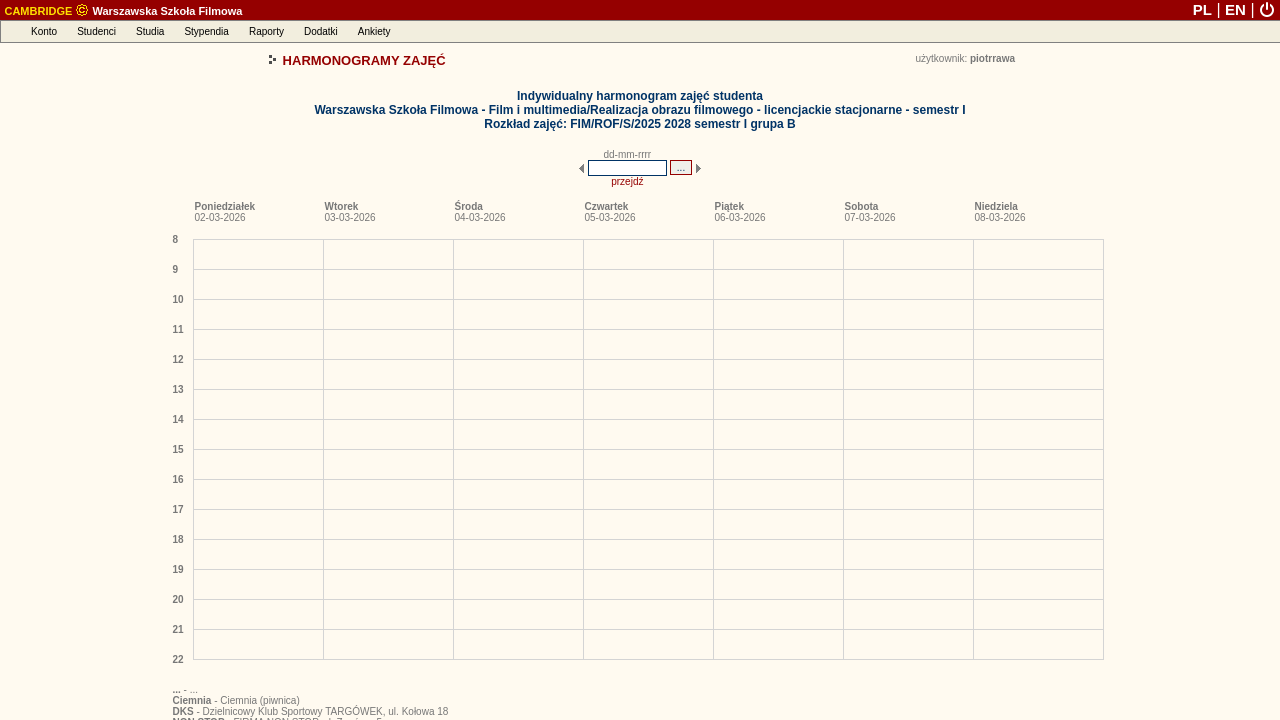
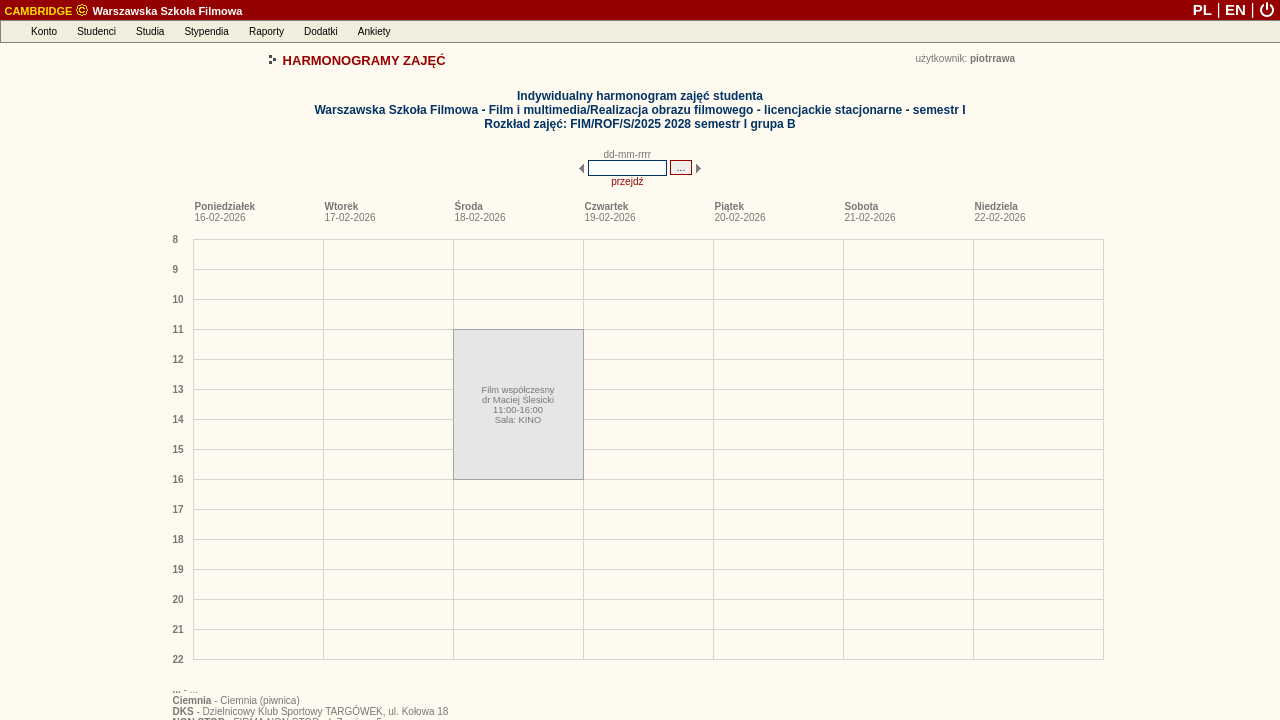
deploy: dfa69d0f82312febb651d8b8e029982c1f68af8a

Changed region(s): [[0.3438, 0.4583, 0.4688, 0.6722]]

diff --git a/debug_harmonogram_page.html b/debug_harmonogram_page.html
@@ -163,8 +163,8 @@
 
 
 
-<link rel="stylesheet" type="text/css" href="/palio/html.run?_Instance=cambridge&amp;_PageID=4&amp;_SessionID=1654942&amp;_SessionKey=589666518&amp;ZoomView=&amp;DisplayMode=&amp;_CheckSum=1575358779">
-<script language="javascript" type="text/javascript" src="/palio/html.run?_Instance=cambridge&amp;_PageID=5&amp;_SessionID=1654942&amp;_SessionKey=589666518&amp;_CheckSum=172641359"></script>
+<link rel="stylesheet" type="text/css" href="/palio/html.run?_Instance=cambridge&amp;_PageID=4&amp;_SessionID=1655131&amp;_SessionKey=933305103&amp;ZoomView=&amp;DisplayMode=&amp;_CheckSum=-724501909">
+<script language="javascript" type="text/javascript" src="/palio/html.run?_Instance=cambridge&amp;_PageID=5&amp;_SessionID=1655131&amp;_SessionKey=933305103&amp;_CheckSum=1449380127"></script>
 
 
 
@@ -354,9 +354,9 @@ CambridgeMenuBar = new jsDOMenuBar("absolute", true)
 
 AccountMenu=new jsDOMenu(200, "", "absolute", false);
 
-AccountMenu.addMenuItem(new menuItem("Zmiana hasła", "", "/palio/html.run?_Instance=cambridge&amp;_PageID=11&amp;_SessionID=1654942&amp;_SessionKey=589666518&amp;_CheckSum=-1424473922"));
+AccountMenu.addMenuItem(new menuItem("Zmiana hasła", "", "/palio/html.run?_Instance=cambridge&amp;_PageID=11&amp;_SessionID=1655131&amp;_SessionKey=933305103&amp;_CheckSum=-147735154"));
 
-  AccountMenu.addMenuItem(new menuItem("Komunikator", "", "/palio/html.run?_Instance=cambridge&amp;_PageID=180&amp;_SessionID=1654942&amp;_SessionKey=589666518&amp;_CheckSum=212127619"));
+  AccountMenu.addMenuItem(new menuItem("Komunikator", "", "/palio/html.run?_Instance=cambridge&amp;_PageID=180&amp;_SessionID=1655131&amp;_SessionKey=933305103&amp;_CheckSum=1488866387"));
 
 
 
@@ -369,7 +369,7 @@ AccountMenu.addMenuItem(new menuItem("Yammer", "", "https://www.yammer.com/onlin
 
 AccountMenu.addMenuItem(new menuItem("-"));
 
-AccountMenu.addMenuItem(new menuItem("Wylogowanie", "", "https://student.szkolafilmowa.pl/palio/html.run?_Instance=cambridge&amp;_PageID=10012&amp;_Action=Logout&amp;_SessionID=1654942&amp;_SessionKey=589666518"));
+AccountMenu.addMenuItem(new menuItem("Wylogowanie", "", "https://student.szkolafilmowa.pl/palio/html.run?_Instance=cambridge&amp;_PageID=10012&amp;_Action=Logout&amp;_SessionID=1655131&amp;_SessionKey=933305103"));
 
 CambridgeMenuBar.addMenuBarItem(new menuBarItem("Konto", AccountMenu));
 
@@ -382,12 +382,12 @@ StudentsMenu=new jsDOMenu(320, "", "absolute", false);
 
 
 
-StudentsMenu.addMenuItem(new menuItem("Moje dane", "", "/palio/html.run?_Instance=cambridge&amp;_PageID=185&amp;_SessionID=1654942&amp;_SessionKey=589666518&amp;_CheckSum=-930546552"));
+StudentsMenu.addMenuItem(new menuItem("Moje dane", "", "/palio/html.run?_Instance=cambridge&amp;_PageID=185&amp;_SessionID=1655131&amp;_SessionKey=933305103&amp;_CheckSum=346192216"));
 
 
 
 
-StudentsMenu.addMenuItem(new menuItem("Moje indeksy", "", "/palio/html.run?_Instance=cambridge&amp;_PageID=186&amp;_SessionID=1654942&amp;_SessionKey=589666518&amp;_CheckSum=-300087927"));
+StudentsMenu.addMenuItem(new menuItem("Moje indeksy", "", "/palio/html.run?_Instance=cambridge&amp;_PageID=186&amp;_SessionID=1655131&amp;_SessionKey=933305103&amp;_CheckSum=976650841"));
 
 
 
@@ -426,7 +426,7 @@ StudiesMenu=new jsDOMenu(250, "", "absolute", false);
 
 
 
-StudiesMenu.addMenuItem(new menuItem("Moje plany studiów", "", "/palio/html.run?_Instance=cambridge&amp;_PageID=258&amp;_SessionID=1654942&amp;_SessionKey=589666518&amp;_CheckSum=-1556898065"));
+StudiesMenu.addMenuItem(new menuItem("Moje plany studiów", "", "/palio/html.run?_Instance=cambridge&amp;_PageID=258&amp;_SessionID=1655131&amp;_SessionKey=933305103&amp;_CheckSum=-280159297"));
 
 
 
@@ -434,13 +434,13 @@ StudiesMenu.addMenuItem(new menuItem("Moje plany studiów", "", "/palio/html.run
 
 
 
-StudiesMenu.addMenuItem(new menuItem("Harmonogramy zajęć", "", "/palio/html.run?_Instance=cambridge&amp;_PageID=95&amp;_SessionID=1654942&amp;_SessionKey=589666518&amp;_CheckSum=-1462690374"));
+StudiesMenu.addMenuItem(new menuItem("Harmonogramy zajęć", "", "/palio/html.run?_Instance=cambridge&amp;_PageID=95&amp;_SessionID=1655131&amp;_SessionKey=933305103&amp;_CheckSum=-185951606"));
 
-StudiesMenu.addMenuItem(new menuItem("Harmonogramy moich zajęć", "", "/palio/html.run?_Instance=cambridge&amp;_PageID=191&amp;_SessionID=1654942&amp;_SessionKey=589666518&amp;_CheckSum=-1088032861"));
+StudiesMenu.addMenuItem(new menuItem("Harmonogramy moich zajęć", "", "/palio/html.run?_Instance=cambridge&amp;_PageID=191&amp;_SessionID=1655131&amp;_SessionKey=933305103&amp;_CheckSum=188705907"));
 
-StudiesMenu.addMenuItem(new menuItem("Harmonogramy innych zajęć", "", "/palio/html.run?_Instance=cambridge&amp;_PageID=248&amp;_SessionID=1654942&amp;_SessionKey=589666518&amp;_CheckSum=373721040"));
+StudiesMenu.addMenuItem(new menuItem("Harmonogramy innych zajęć", "", "/palio/html.run?_Instance=cambridge&amp;_PageID=248&amp;_SessionID=1655131&amp;_SessionKey=933305103&amp;_CheckSum=1650459808"));
 
-StudiesMenu.addMenuItem(new menuItem("Harmonogramy zajętości sal", "", "/palio/html.run?_Instance=cambridge&amp;_PageID=269&amp;_SessionID=1654942&amp;_SessionKey=589666518&amp;_CheckSum=1437908751"));
+StudiesMenu.addMenuItem(new menuItem("Harmonogramy zajętości sal", "", "/palio/html.run?_Instance=cambridge&amp;_PageID=269&amp;_SessionID=1655131&amp;_SessionKey=933305103&amp;_CheckSum=-1580319777"));
 
 
 
@@ -470,9 +470,9 @@ CambridgeMenuBar.addMenuBarItem(new menuBarItem("Studia", StudiesMenu));
 ScholarshipsMenu=new jsDOMenu(230, "", "absolute", false);
 
 
-ScholarshipsMenu.addMenuItem(new menuItem("Moje stypendia", "", "/palio/html.run?_Instance=cambridge&amp;_PageID=187&amp;_SessionID=1654942&amp;_SessionKey=589666518&amp;_CheckSum=330370698"));
+ScholarshipsMenu.addMenuItem(new menuItem("Moje stypendia", "", "/palio/html.run?_Instance=cambridge&amp;_PageID=187&amp;_SessionID=1655131&amp;_SessionKey=933305103&amp;_CheckSum=1607109466"));
 
-ScholarshipsMenu.addMenuItem(new menuItem("Mój numer rachunku", "", "/palio/html.run?_Instance=cambridge&amp;_PageID=380&amp;_SessionID=1654942&amp;_SessionKey=589666518&amp;_CheckSum=772827397"));
+ScholarshipsMenu.addMenuItem(new menuItem("Mój numer rachunku", "", "/palio/html.run?_Instance=cambridge&amp;_PageID=380&amp;_SessionID=1655131&amp;_SessionKey=933305103&amp;_CheckSum=2049566165"));
 
 
 
@@ -482,9 +482,9 @@ ScholarshipsMenu.addMenuItem(new menuItem("Mój numer rachunku", "", "/palio/htm
 ScholarshipsMenu.addMenuItem(new menuItem("-"));
 
 
-ScholarshipsMenu.addMenuItem(new menuItem("Fundusze stypendialne", "", "/palio/html.run?_Instance=cambridge&amp;_PageID=54&amp;_SessionID=1654942&amp;_SessionKey=589666518&amp;_CheckSum=1334360125"));
+ScholarshipsMenu.addMenuItem(new menuItem("Fundusze stypendialne", "", "/palio/html.run?_Instance=cambridge&amp;_PageID=54&amp;_SessionID=1655131&amp;_SessionKey=933305103&amp;_CheckSum=-1683868403"));
 
-ScholarshipsMenu.addMenuItem(new menuItem("Rodzaje stypendiów", "", "/palio/html.run?_Instance=cambridge&amp;_PageID=55&amp;_SessionID=1654942&amp;_SessionKey=589666518&amp;_CheckSum=1964818750"));
+ScholarshipsMenu.addMenuItem(new menuItem("Rodzaje stypendiów", "", "/palio/html.run?_Instance=cambridge&amp;_PageID=55&amp;_SessionID=1655131&amp;_SessionKey=933305103&amp;_CheckSum=-1053409778"));
 
 
 
@@ -495,7 +495,7 @@ CambridgeMenuBar.addMenuBarItem(new menuBarItem("Stypendia", ScholarshipsMenu));
 ReportsMenu=new jsDOMenu(200, "", "absolute", false);
 
 
-ReportsMenu.addMenuItem(new menuItem("Generowanie raportów", "", "/palio/html.run?_Instance=cambridge&amp;_PageID=68&amp;_SessionID=1654942&amp;_SessionKey=589666518&amp;_CheckSum=1925575520"));
+ReportsMenu.addMenuItem(new menuItem("Generowanie raportów", "", "/palio/html.run?_Instance=cambridge&amp;_PageID=68&amp;_SessionID=1655131&amp;_SessionKey=933305103&amp;_CheckSum=-1092653008"));
 
 
 
@@ -505,7 +505,7 @@ CambridgeMenuBar.addMenuBarItem(new menuBarItem("Raporty", ReportsMenu));
 
 AdditionalsMenu=new jsDOMenu(200, "", "absolute", false);
 
-AdditionalsMenu.addMenuItem(new menuItem("Forum internetowe", "", "/palio/html.run?_Instance=cambridge&amp;_PageID=8001&amp;_SessionID=1654942&amp;_SessionKey=589666518&amp;_CheckSum=-869357033"));
+AdditionalsMenu.addMenuItem(new menuItem("Forum internetowe", "", "/palio/html.run?_Instance=cambridge&amp;_PageID=8001&amp;_SessionID=1655131&amp;_SessionKey=933305103&amp;_CheckSum=407381735"));
 
 
 
@@ -539,7 +539,7 @@ PollsMenu=new jsDOMenu(225, "", "absolute", false);
 
 
 
-PollsMenu.addMenuItem(new menuItem("Wypełnianie ankiet", "", "/palio/html.run?_Instance=cambridge&amp;_PageID=227&amp;_SessionID=1654942&amp;_SessionKey=589666518&amp;_CheckSum=-690466671"));
+PollsMenu.addMenuItem(new menuItem("Wypełnianie ankiet", "", "/palio/html.run?_Instance=cambridge&amp;_PageID=227&amp;_SessionID=1655131&amp;_SessionKey=933305103&amp;_CheckSum=586272097"));
 
 
 CambridgeMenuBar.addMenuBarItem(new menuBarItem("Ankiety", PollsMenu));
@@ -576,7 +576,7 @@ CambridgeMenuBar.moveTo(0,20);
 <table width="100%" border="0" cellspacing="0" cellpadding="0" align="center">
 <tbody><tr class="top_belt">
 
-<td align="left" height="20"><b>&nbsp;<a class="belt" href="/palio/html.run?_Instance=cambridge&amp;_PageID=6&amp;_SessionID=1654942&amp;_SessionKey=589666518&amp;_CheckSum=803099984"><span class="belt_application">CAMBRIDGE</span> <img src="/palio/html.media?_Instance=cambridge&amp;_Option=Palio&amp;_ID=51&amp;_CheckSum=684598873" width="14" height="14" border="0" style="position:relative;top:-2px;vertical-align:bottom"> Warszawska Szkoła Filmowa</a></b></td>
+<td align="left" height="20"><b>&nbsp;<a class="belt" href="/palio/html.run?_Instance=cambridge&amp;_PageID=6&amp;_SessionID=1655131&amp;_SessionKey=933305103&amp;_CheckSum=2079838752"><span class="belt_application">CAMBRIDGE</span> <img src="/palio/html.media?_Instance=cambridge&amp;_Option=Palio&amp;_ID=51&amp;_CheckSum=684598873" width="14" height="14" border="0" style="position:relative;top:-2px;vertical-align:bottom"> Warszawska Szkoła Filmowa</a></b></td>
 <td align="right">
 
 
@@ -587,13 +587,13 @@ CambridgeMenuBar.moveTo(0,20);
 
 
 
-<a href="/palio/html.run?_Instance=cambridge&amp;_PageID=6&amp;_SessionID=1654942&amp;_SessionKey=589666518&amp;SetLanguage=pl&amp;_CheckSum=-1599877430" class="belt" style="font-size:15px;line-height:18px;text-decoration:none" title="polski"><b>PL</b></a>
+<a href="/palio/html.run?_Instance=cambridge&amp;_PageID=6&amp;_SessionID=1655131&amp;_SessionKey=933305103&amp;SetLanguage=pl&amp;_CheckSum=1530855418" class="belt" style="font-size:15px;line-height:18px;text-decoration:none" title="polski"><b>PL</b></a>
 <span class="belt" style="font-size:16px">|</span>
-<a href="/palio/html.run?_Instance=cambridge&amp;_PageID=6&amp;_SessionID=1654942&amp;_SessionKey=589666518&amp;SetLanguage=en&amp;_CheckSum=292905853" class="belt" style="font-size:15px;line-height:18px;text-decoration:none" title="english"><b>EN</b></a>
+<a href="/palio/html.run?_Instance=cambridge&amp;_PageID=6&amp;_SessionID=1655131&amp;_SessionKey=933305103&amp;SetLanguage=en&amp;_CheckSum=-871328595" class="belt" style="font-size:15px;line-height:18px;text-decoration:none" title="english"><b>EN</b></a>
 <span class="belt" style="font-size:16px">|</span>
 
 
-<img src="/palio/html.media?_Instance=cambridge&amp;_Option=Palio&amp;_ID=94&amp;_CheckSum=-1316787974" style="cursor:pointer;vertical-align:bottom;margin-bottom:2px;margin-right:5px" alt="Wyloguj" title="Wyloguj" onclick="if(confirm('Czy na pewno chcesz się wylogować?'))window.location='https://student.szkolafilmowa.pl/palio/html.run?_Instance=cambridge&amp;_PageID=10012&amp;_Action=Logout&amp;_SessionID=1654942&amp;_SessionKey=589666518'">
+<img src="/palio/html.media?_Instance=cambridge&amp;_Option=Palio&amp;_ID=94&amp;_CheckSum=-1316787974" style="cursor:pointer;vertical-align:bottom;margin-bottom:2px;margin-right:5px" alt="Wyloguj" title="Wyloguj" onclick="if(confirm('Czy na pewno chcesz się wylogować?'))window.location='https://student.szkolafilmowa.pl/palio/html.run?_Instance=cambridge&amp;_PageID=10012&amp;_Action=Logout&amp;_SessionID=1655131&amp;_SessionKey=933305103'">
 </td>
 
 </tr>
@@ -1925,16 +1925,16 @@ document.schedule_scroll_form.submit();
 }
 function goForward()
 {
-document.schedule_scroll_form._firstDayOfWeek.value = '09-03-2026';
+document.schedule_scroll_form._firstDayOfWeek.value = '23-02-2026';
 document.schedule_scroll_form.submit();
 }
 function goBackward()
 {
-document.schedule_scroll_form._firstDayOfWeek.value = '28-02-2026';
+document.schedule_scroll_form._firstDayOfWeek.value = '14-02-2026';
 document.schedule_scroll_form.submit();
 }
 </script>
-<form method="post" name="schedule_scroll_form" id="schedule_scroll_form" action="/palio/html.run?_Instance=cambridge&amp;_PageID=191&amp;_SessionID=1654942&amp;_SessionKey=589666518&amp;_RowID=6987&amp;_RowIDType=I&amp;_CheckSum=2052221510" onsubmit="return checkFrm_schedule_scroll_form(this)">
+<form method="post" name="schedule_scroll_form" id="schedule_scroll_form" action="/palio/html.run?_Instance=cambridge&amp;_PageID=191&amp;_SessionID=1655131&amp;_SessionKey=933305103&amp;_RowID=6987&amp;_RowIDType=I&amp;_CheckSum=-500709514" onsubmit="return checkFrm_schedule_scroll_form(this)">
 <div style="display:none;"><input type="hidden" name="_formSubmitted" value="yes"></div>
 <input type="hidden" name="_firstDayOfWeek">
 <table cellspacing="0" cellpadding="0" border="0" align="center">
@@ -2582,6 +2582,22 @@ return true;
 
 
 
+
+
+
+
+
+
+
+
+
+
+
+
+
+
+
+
 <br>
 
 
@@ -2593,6 +2609,9 @@ return true;
 
 
 
+ 
+ 
+ 
 
 
 
@@ -2624,6 +2643,52 @@ return true;
 
 
 
+
+
+
+
+
+
+
+
+
+
+
+
+
+
+
+
+
+
+
+
+
+
+
+
+
+
+
+
+
+
+
+
+
+
+
+
+
+
+
+
+
+
+
+
+
+  
 
 
 
@@ -3103,7 +3168,7 @@ tipDivElement.style.visibility="hidden"
 <tbody><tr><td class="font">
 <b class="font">Poniedziałek</b><br>
 
-<span class="font">02-03-2026</span>
+<span class="font">16-02-2026</span>
 </td></tr>
 </tbody></table>
 </div>
@@ -3118,7 +3183,7 @@ tipDivElement.style.visibility="hidden"
 <tbody><tr><td class="font">
 <b class="font">Wtorek</b><br>
 
-<span class="font">03-03-2026</span>
+<span class="font">17-02-2026</span>
 </td></tr>
 </tbody></table>
 </div>
@@ -3133,7 +3198,7 @@ tipDivElement.style.visibility="hidden"
 <tbody><tr><td class="font">
 <b class="font">Środa</b><br>
 
-<span class="font">04-03-2026</span>
+<span class="font">18-02-2026</span>
 </td></tr>
 </tbody></table>
 </div>
@@ -3148,7 +3213,7 @@ tipDivElement.style.visibility="hidden"
 <tbody><tr><td class="font">
 <b class="font">Czwartek</b><br>
 
-<span class="font">05-03-2026</span>
+<span class="font">19-02-2026</span>
 </td></tr>
 </tbody></table>
 </div>
@@ -3163,7 +3228,7 @@ tipDivElement.style.visibility="hidden"
 <tbody><tr><td class="font">
 <b class="font">Piątek</b><br>
 
-<span class="font">06-03-2026</span>
+<span class="font">20-02-2026</span>
 </td></tr>
 </tbody></table>
 </div>
@@ -3178,7 +3243,7 @@ tipDivElement.style.visibility="hidden"
 <tbody><tr><td class="font">
 <b class="font">Sobota</b><br>
 
-<span class="font">07-03-2026</span>
+<span class="font">21-02-2026</span>
 </td></tr>
 </tbody></table>
 </div>
@@ -3193,7 +3258,7 @@ tipDivElement.style.visibility="hidden"
 <tbody><tr><td class="font">
 <b class="font">Niedziela</b><br>
 
-<span class="font">08-03-2026</span>
+<span class="font">22-02-2026</span>
 </td></tr>
 </tbody></table>
 </div>
@@ -3202,6 +3267,40 @@ tipDivElement.style.visibility="hidden"
 
 
 
+
+
+
+
+
+
+
+
+
+
+
+
+
+
+
+
+
+
+
+
+<div style="
+position:absolute;
+top:90;
+left:280;
+width:129;
+height:149.00;
+layer-background-color:#E6E6E6;
+background-color:#E6E6E6;
+border:1px solid #A4A4A4;
+z-index:0;" onmouseover="showtip(&quot;<table><tr><td nowrap class=font>Film współczesny<br>dr Maciej Ślesicki<br>11:00-16:00<br>Sala: KINO<br>Plan: FIM/ROF/S/2025 2028<br>semestr I</td></tr></table>&quot;);" onmouseout="hidetip();">
+<table cellspacing="0" cellpadding="0" align="center" width="129">
+<tbody><tr><td width="129" align="center" class="font" valign="middle" height="149.00"><span style="font-size:7pt;">Film współczesny<br>dr Maciej Ślesicki<br>11:00-16:00<br>Sala: KINO</span></td></tr>
+</tbody></table>
+</div>
 
 
 </div>
@@ -3228,8 +3327,8 @@ tipDivElement.style.visibility="hidden"
 <td align="right">
 <table cellspacing="0" cellpadding="2" border="0">
 <tbody><tr>
-<td valign="middle"><a class="link" href="/palio/html.run?_Instance=cambridge&amp;_PageID=96&amp;_SessionID=1654942&amp;_SessionKey=589666518&amp;_RowID=6987&amp;_RowIDType=I&amp;_firstDayOfWeek=02-03-2026&amp;_CheckSum=1539643011" target="_blank">drukuj</a></td>
-<td valign="middle"><a class="link" href="/palio/html.run?_Instance=cambridge&amp;_PageID=96&amp;_SessionID=1654942&amp;_SessionKey=589666518&amp;_RowID=6987&amp;_RowIDType=I&amp;_firstDayOfWeek=02-03-2026&amp;_CheckSum=1539643011" target="_blank"><img src="/palio/html.media?_Instance=cambridge&amp;_Option=Palio&amp;_ID=26&amp;_CheckSum=1936112049" awidth="16" height="14" alt="drukuj" title="drukuj" border="0"></a></td>
+<td valign="middle"><a class="link" href="/palio/html.run?_Instance=cambridge&amp;_PageID=96&amp;_SessionID=1655131&amp;_SessionKey=933305103&amp;_RowID=6987&amp;_RowIDType=I&amp;_firstDayOfWeek=16-02-2026&amp;_CheckSum=838754895" target="_blank">drukuj</a></td>
+<td valign="middle"><a class="link" href="/palio/html.run?_Instance=cambridge&amp;_PageID=96&amp;_SessionID=1655131&amp;_SessionKey=933305103&amp;_RowID=6987&amp;_RowIDType=I&amp;_firstDayOfWeek=16-02-2026&amp;_CheckSum=838754895" target="_blank"><img src="/palio/html.media?_Instance=cambridge&amp;_Option=Palio&amp;_ID=26&amp;_CheckSum=1936112049" awidth="16" height="14" alt="drukuj" title="drukuj" border="0"></a></td>
 </tr>
 </tbody></table>
 </td>
@@ -3261,7 +3360,7 @@ tipDivElement.style.visibility="hidden"
 
 
 
-<input type="button" name="jump_action" value="Powrót do listy harmonogramów zajęć" class="button" onclick="window.location='/palio/html.run?_Instance=cambridge&amp;_PageID=191&amp;_SessionID=1654942&amp;_SessionKey=589666518&amp;_CheckSum=-1088032861'">
+<input type="button" name="jump_action" value="Powrót do listy harmonogramów zajęć" class="button" onclick="window.location='/palio/html.run?_Instance=cambridge&amp;_PageID=191&amp;_SessionID=1655131&amp;_SessionKey=933305103&amp;_CheckSum=188705907'">
 
 
 
@@ -3286,7 +3385,7 @@ tipDivElement.style.visibility="hidden"
 grayscaleImagesIE10Plus();
 </script>
 
-<p align="right" class="font"><i style="color:#aaaaaa">Czas generowania strony 78 ms</i></p>
+<p align="right" class="font"><i style="color:#aaaaaa">Czas generowania strony 99 ms</i></p>
 
 
 </body></html>
